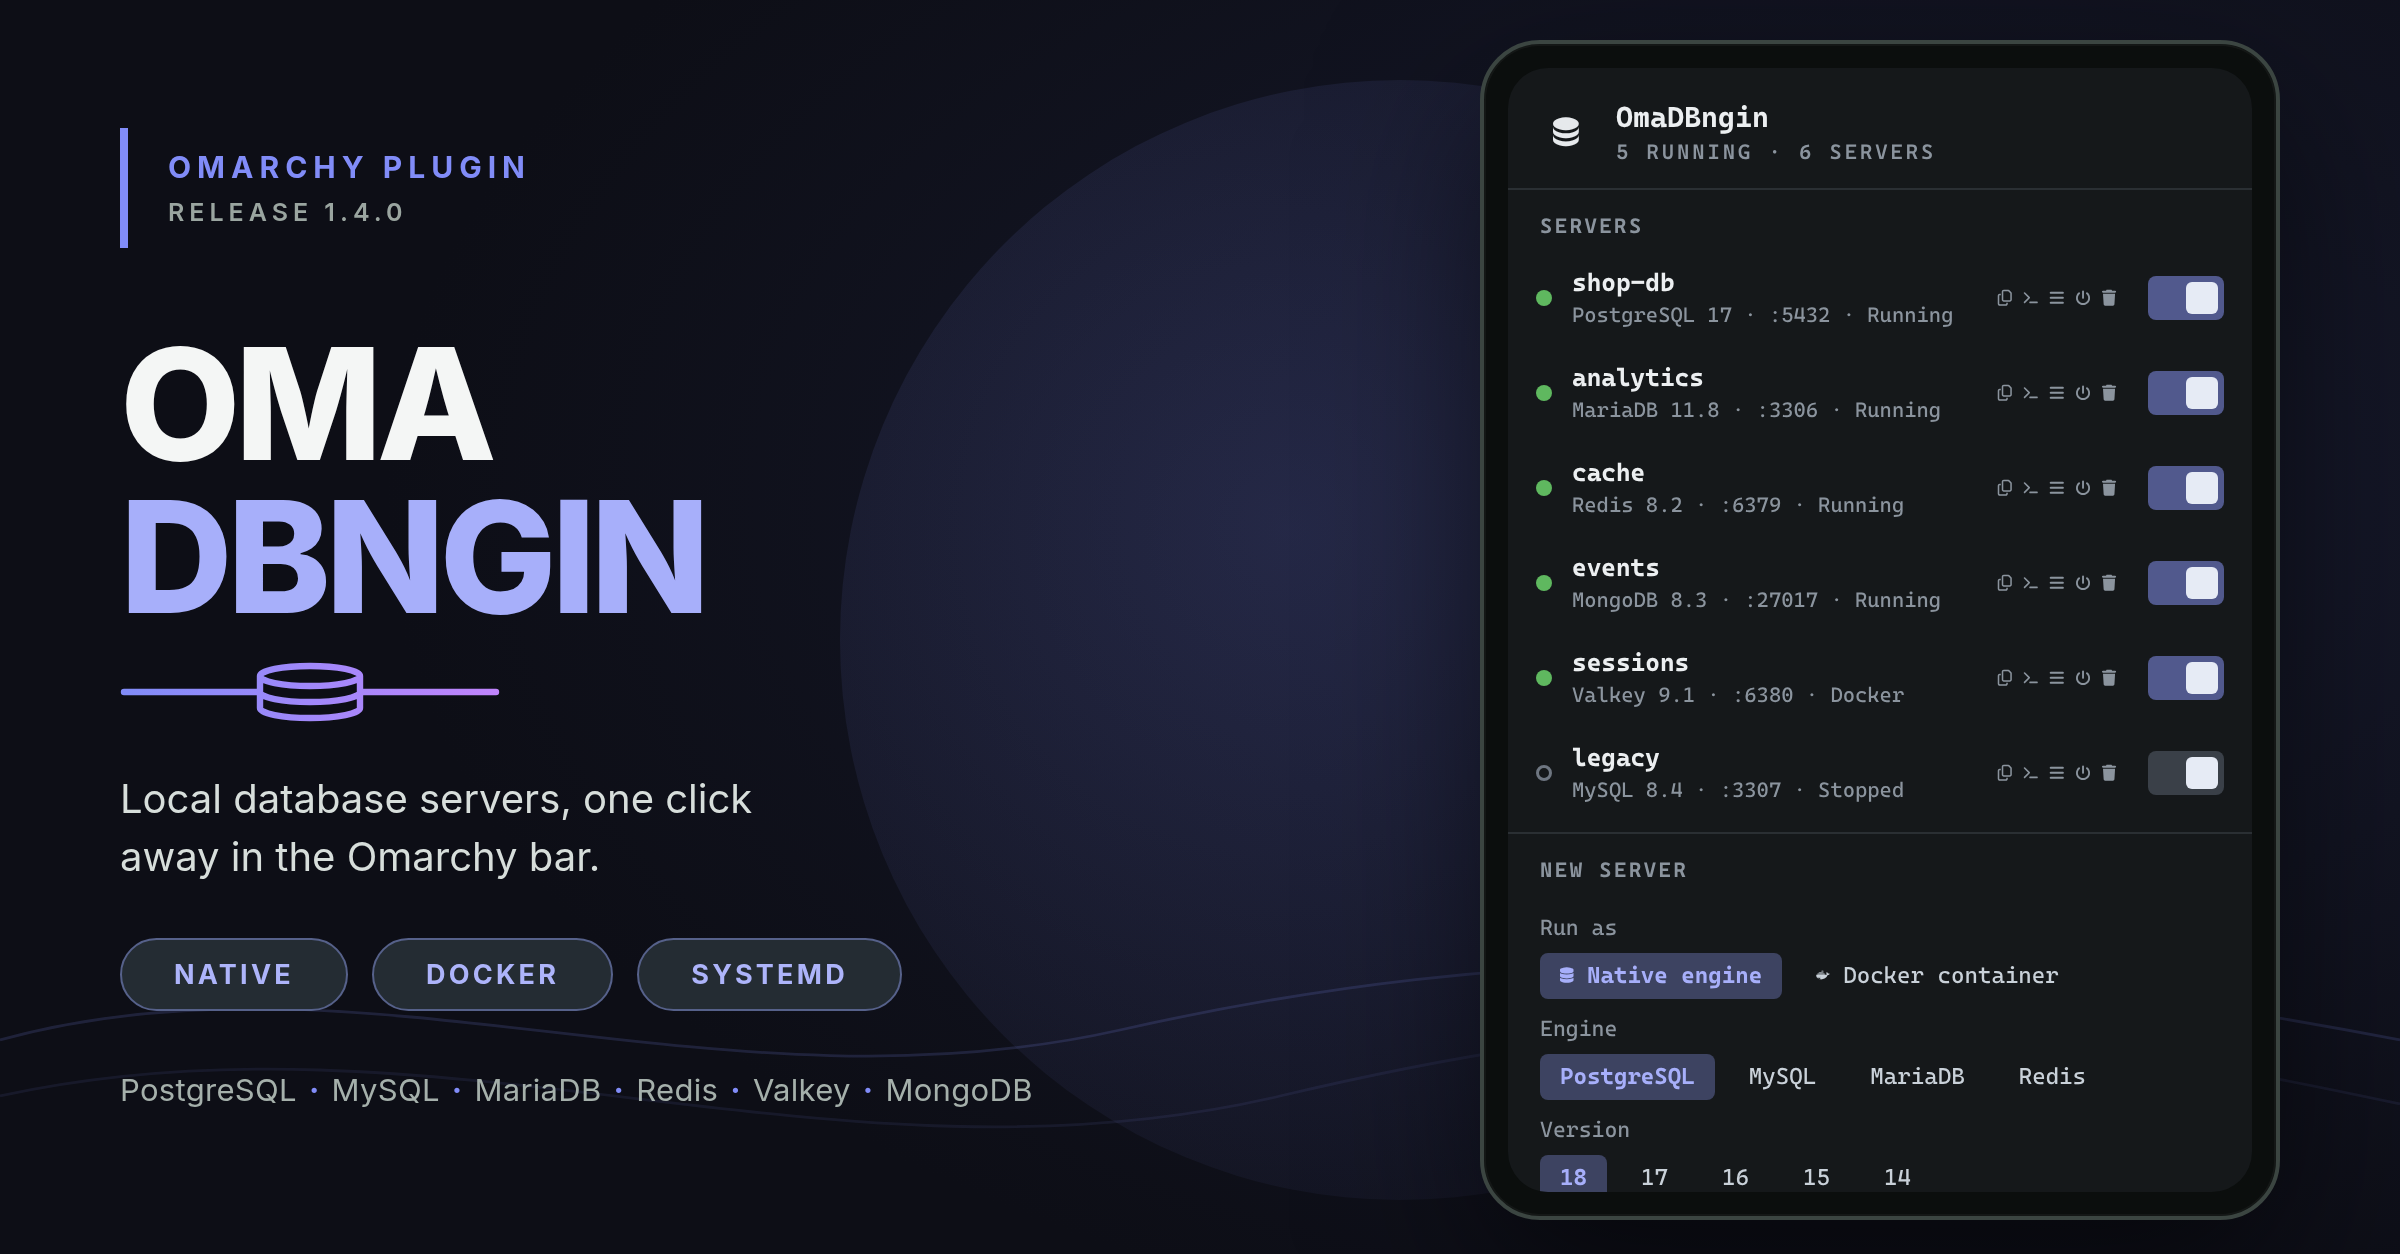
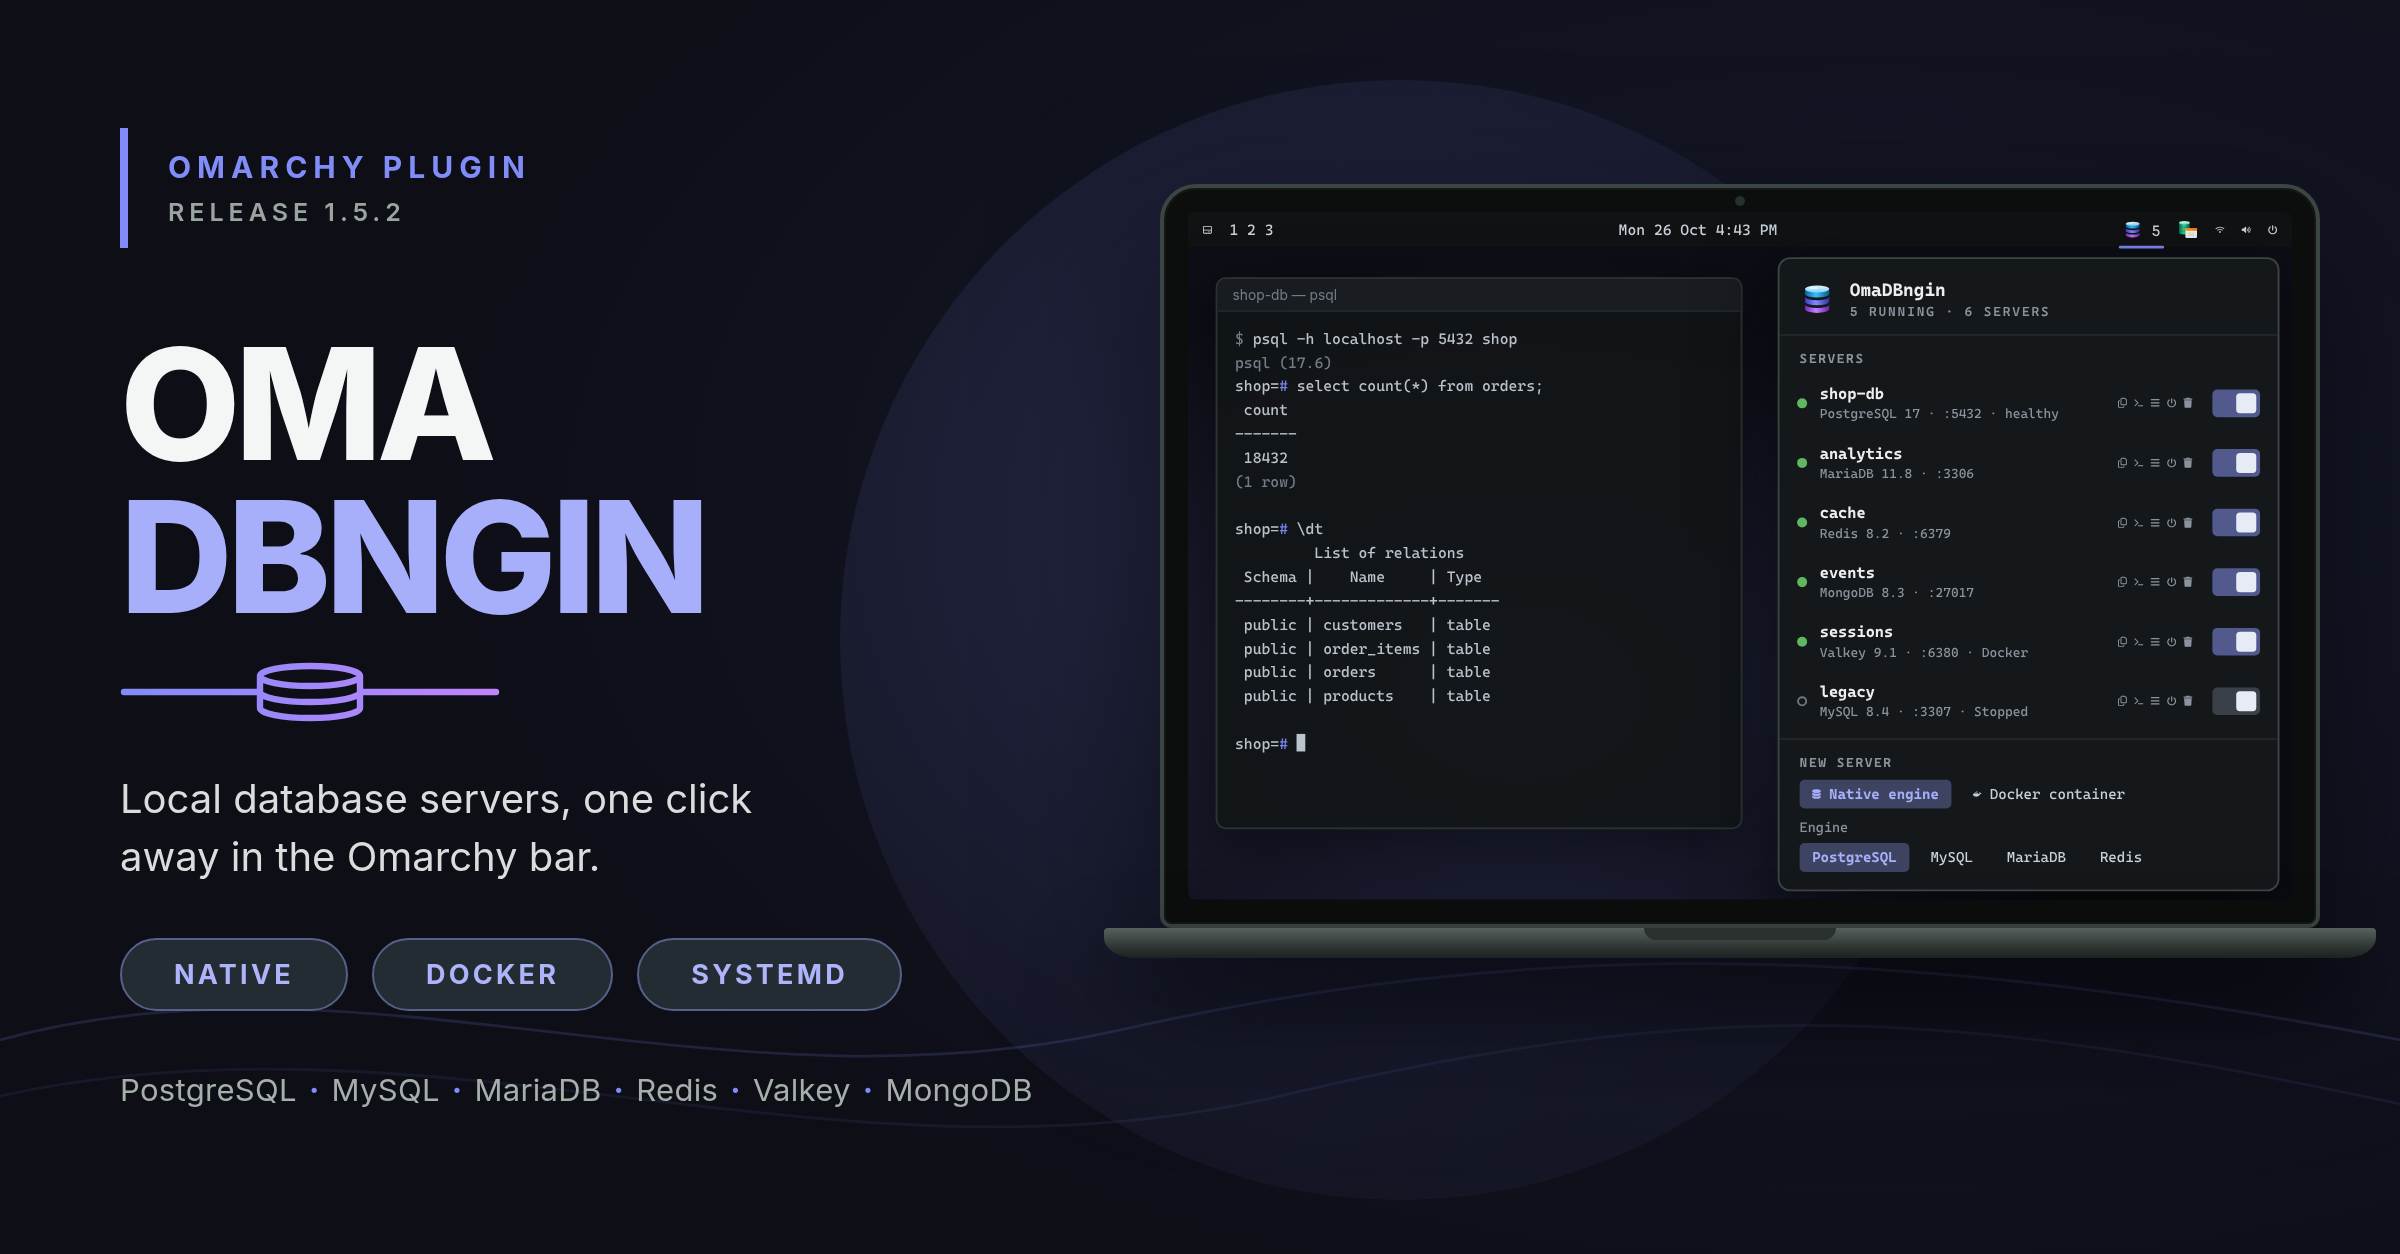
OmaDBngin 1.5.2: upgrade old Redis containers; OmaTablePlus
Docker Redis/Valkey servers created before 1.5.1 still had the password in
the container command line, and only a port change rebuilt them. The first
dbctl run after updating now recreates each such container once on its own
data, keeping its port, autostart and running state (upgrade_redis_cmdline;
the port move shares docker_recreate). A regression test builds a container
with the old dbctl and checks the upgrade.

docker_status no longer pipes curl output: it checks the socket and the
docker service, falling back to docker info.

OmaTable is now OmaTablePlus (blackcode.omatableplus): Open in OmaTablePlus,
detection and links follow. The preview poster shows the panel on a laptop.

diff --git a/Panel.qml b/Panel.qml
@@ -48,7 +48,7 @@ Panel {
   property string armedRestore: ""
   property string portDraft: ""       // kept here: a state refresh rebuilds the rows
   property bool portFocus: false
-  property bool omatable: false       // OmaTable is installed: offer Open in OmaTable
+  property bool omatable: false       // OmaTablePlus is installed: offer Open in OmaTablePlus
 
   function human(n) {
     return n >= 1073741824 ? (n / 1073741824).toFixed(1) + " GB" : n >= 1048576 ? Math.round(n / 1048576) + " MB"
@@ -65,9 +65,9 @@ Panel {
     if (s.running && s.memory) parts.push(human(s.memory) + " RAM")
     return parts.join("  ·  ")
   }
-  function openInOmaTable(name) {
+  function openInOmaTablePlus(name) {
     root.close()
-    Quickshell.execDetached(["omarchy-shell", "shell", "summon", "blackcode.omatable", JSON.stringify({ connect: "omadb:" + name })])
+    Quickshell.execDetached(["omarchy-shell", "shell", "summon", "blackcode.omatableplus", JSON.stringify({ connect: "omadb:" + name })])
   }
   function toggleTools(name) {
     root.armedRestore = ""
@@ -592,8 +592,8 @@ Panel {
                 Row {
                   spacing: Style.space(8)
                   Chip {
-                    label: row.modelData.engine === "mongodb" ? "Back up in OmaTable" : "  Back up to ~/Downloads"
-                    onPicked: row.modelData.engine === "mongodb" ? root.openInOmaTable(row.modelData.name)
+                    label: row.modelData.engine === "mongodb" ? "Back up in OmaTablePlus" : "  Back up to ~/Downloads"
+                    onPicked: row.modelData.engine === "mongodb" ? root.openInOmaTablePlus(row.modelData.name)
                       : root.run(row.modelData.name, "Backing up", ["backup", row.modelData.name])
                   }
                   TextField {
@@ -660,8 +660,8 @@ Panel {
                 anchors.verticalCenter: parent.verticalCenter
                 visible: root.omatable
                 text: "\uf0ce"
-                tip: "Open in OmaTable"
-                onActivated: root.openInOmaTable(row.modelData.name)
+                tip: "Open in OmaTablePlus"
+                onActivated: root.openInOmaTablePlus(row.modelData.name)
               }
 
               IconAction {

diff --git a/README.md b/README.md
@@ -12,14 +12,14 @@ A DBngin-style database manager for the Omarchy bar. Click the  icon to:
 - **See** its username and password (), **copy** its connection URL with them (), open its **CLI client** in a terminal (),
   follow its **logs** ()
 - Make it **start with the system** ()
-- **Open** it in [OmaTable](https://github.com/alshareedah22/omatable) (, when OmaTable is installed)
+- **Open** it in [OmaTablePlus](https://github.com/alshareedah22/omatableplus) (, when OmaTablePlus is installed)
 - **Delete** it and its data (, click twice)
 
 Each running server shows its uptime, memory and data size; a failed one shows the
 last error from its log. The  button opens its tools:
 
 - **Back up** every database to `~/Downloads/<name>-<date>.sql` (Redis/Valkey: an
-  `.rdb` snapshot). MongoDB backups are made in OmaTable (*Database ▾ → Back up*).
+  `.rdb` snapshot). MongoDB backups are made in OmaTablePlus (*Database ▾ → Back up*).
 - **Restore** one of the listed backups (click twice). SQL dumps run against the server;
   an RDB snapshot replaces the Redis/Valkey data.
 - **Move to port**: the server gets a new port and restarts if it was running (Docker
